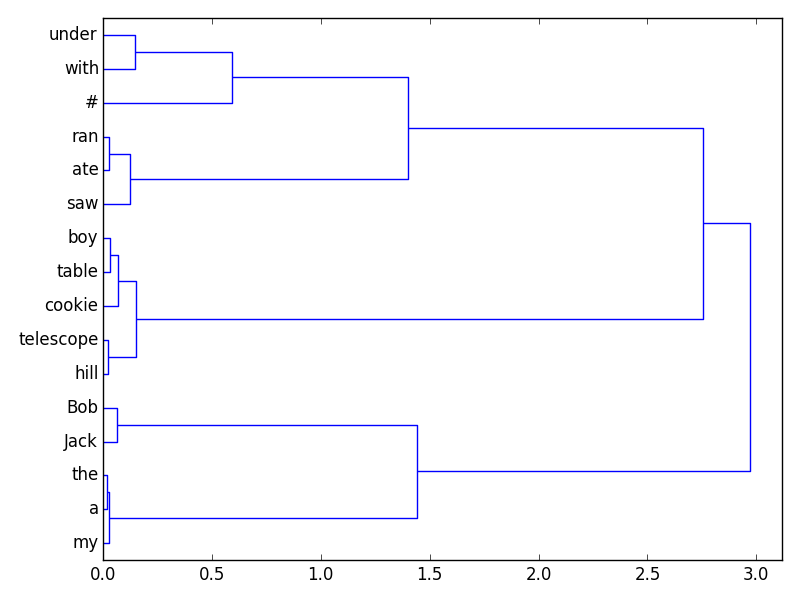
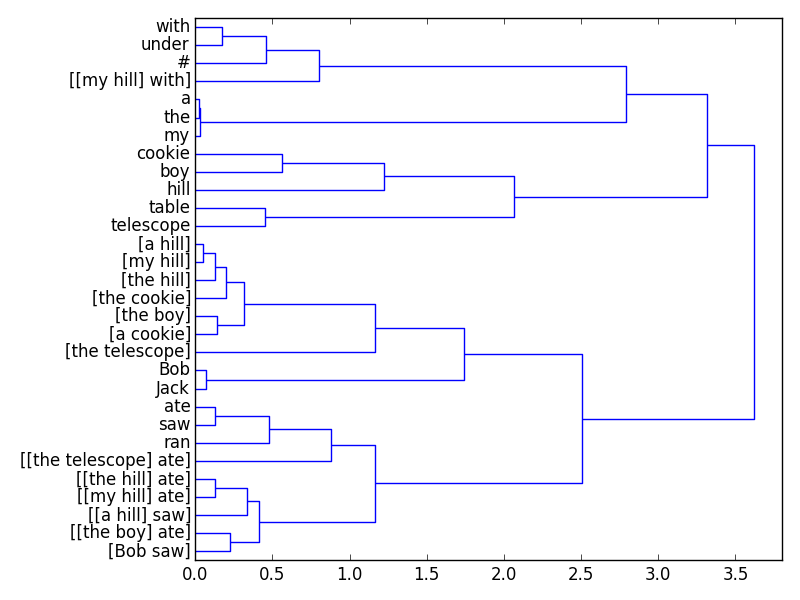
First stab at chunks, preliminary success

diff --git a/numila/numila.py b/numila/numila.py
@@ -20,16 +20,22 @@ class Umila(object):
         super(Umila, self).__init__()
         self.graph = Graph()
         self.last_node = self.graph['#']
+        self.graph['#'].count += 1
 
     def read(self, token):
         """Reads one token and performs all associated computation"""
+        self.graph.decay()
         node = self.graph[token]
         node.count += 1
         self.last_node.forward[node] += 1
         node.backward[self.last_node] += 1
+        chunk = self.graph.chunk(self.last_node, node)
+        if chunk:
+            chunk.count += 1
+            self.last_node = chunk
+        else:
+            self.last_node = node
 
-        self.graph.decay()
-        self.last_node = node
 
     def read_file(self, file_path, split=' '):
         with open(file_path) as f:
@@ -66,8 +72,28 @@ class Graph(object):
             self.activations[idx] = 1.0
             return self.nodes[idx]
 
+    def __contains__(self, item):
+        return item in self.string_to_index
+
     def decay(self):
         pass
+
+    def chunk(self, node1, node2):
+        chunk_string = '[{node1.string} {node2.string}]'.format(**locals())
+        if '#' in chunk_string:
+            # We assume that chunks cannot occur across utterance boundaries.
+            return False
+        if chunk_string in self:
+            return self[chunk_string]
+        elif min(node1.count, node2.count) < 3:
+            return False
+        else:
+            ftp = distance.cosine(node1.semantic_vector, node2.after_context_vector)
+            btp = distance.cosine(node1.before_context_vector, node2.semantic_vector)
+            if (ftp + btp) / 2 < 0.5:
+                return self[chunk_string]
+            else:
+                return False
 
     def distance_matrix(self, round_to=None):
         """A distance matrix of all nodes in the graph."""
@@ -99,12 +125,14 @@ class Node(object):
         self.forward = Counter()
         self.backward = Counter()
         self.id_vector = sparse_vector(VECTOR_SIZE, PERCENT_NON_ZERO)
+        self.before_context_vector = np.roll(self.id_vector, -1)
+        self.after_context_vector = np.roll(self.id_vector, 1)
 
     @property
     def semantic_vector(self):
-        forward =  sum(np.roll(node.id_vector, 1) * (weight / self.count) 
+        forward =  sum(node.after_context_vector * (weight / self.count) 
                        for node, weight in self.forward.items())
-        backward =  sum(np.roll(node.id_vector, -1) * (weight / self.count) 
+        backward =  sum(node.before_context_vector * (weight / self.count) 
                        for node, weight in self.backward.items())
         return FTP_PREFERENCE * forward + (1 - FTP_PREFERENCE) * backward
 
@@ -118,8 +146,10 @@ class Node(object):
                 'Followed by: {followers}\n'
                 'Preceded by: {preceders}').format(**locals())
 
+
 def similarity(node1, node2):
     return 1 - distance.cosine(node1.semantic_vector, node2.semantic_vector)
+
 
 def main():
     m = Umila()
@@ -130,10 +160,11 @@ def main():
     #print(m.graph['man'])
     #print(m.graph['telescope'])
     #print(m.graph['saw'])
-    #print(similarity(m.graph['man'], m.graph['telescope']))
-    #print(similarity(m.graph['man'], m.graph['saw']))
-    #print(m.graph.distance_matrix(round_to=1))
+    print(similarity(m.graph['cookie'], m.graph['telescope']))
+    print(similarity(m.graph['cookie'], m.graph['saw']))
+    print(m.graph.distance_matrix(round_to=1))
     m.graph.plot_dendrogram()
+    import IPython; IPython.embed()
 
 
 
